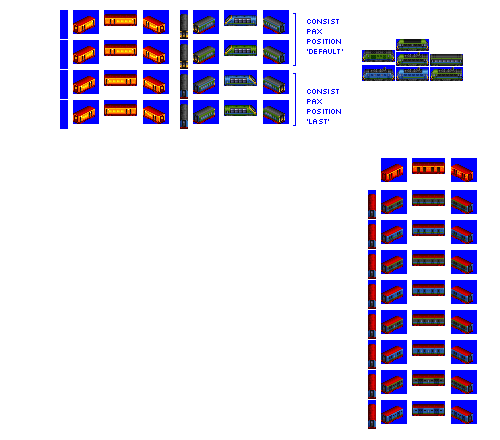
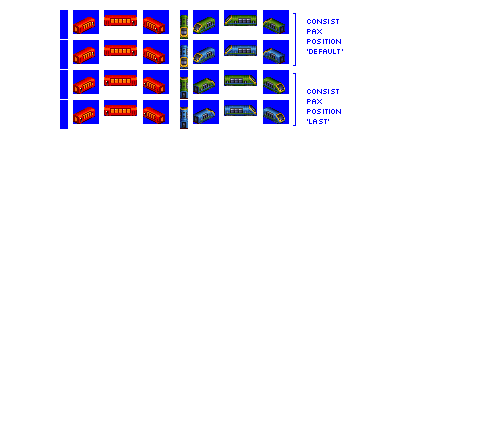
Change: sprites complete for Stratos, and pony NG gen 4 panoramic driving trailer

diff --git a/src/vehicles/pony/driving_cab_panoramic_passenger_ng_pony_gen_4.py b/src/vehicles/pony/driving_cab_panoramic_passenger_ng_pony_gen_4.py
@@ -11,14 +11,18 @@ def main(roster_id, **kwargs):
         base_track_type_name="NG",
         gen=4,
         extended_vehicle_life=True,  # extended vehicle life for all this generation of NG eh
-        sprites_complete=False,
+        sprites_complete=True,
     )
 
-    consist.add_unit(type=CabControlPaxCarUnit, weight=32, chassis="railcar_32px")
-
-    consist.description = """"""
-    consist.foamer_facts = (
-        """KIWI DRIVING CAB"""
+    consist.add_unit(
+        type=CabControlPaxCarUnit,
+        weight=32,
+        chassis="railcar_ng_32px",
+        tail_light="railcar_32px_6",
+        suppress_roof_sprite=True,
     )
+
+    consist.description = """For a view most spectacular."""
+    consist.foamer_facts = """Generic panoramic coaches"""
 
     return consist

diff --git a/src/vehicles/pony/stratos.py b/src/vehicles/pony/stratos.py
@@ -20,7 +20,7 @@ def main(roster_id, **kwargs):
         tilt_bonus=True,  # for lolz
         extended_vehicle_life=True,  # extended vehicle life for all this generation of NG eh
         consist_ruleset="railcars_4_unit_sets",  # special case
-        sprites_complete=False,
+        sprites_complete=True,
     )
 
     consist.add_unit(
@@ -28,7 +28,7 @@ def main(roster_id, **kwargs):
         weight=60,
         capacity=24,
         chassis="railcar_ng_32px",
-        tail_light="railcar_32px_5",
+        tail_light="railcar_32px_6",
         suppress_roof_sprite=True,
         repeat=2,
     )

diff --git a/src/vehicles/pony/driving_cab_passenger_ng_pony_gen_4.py b/src/vehicles/pony/driving_cab_passenger_ng_pony_gen_4.py
@@ -16,7 +16,9 @@ def main(roster_id, **kwargs):
 
     consist.add_unit(type=CabControlPaxCarUnit, weight=32, chassis="4_axle_ng_32px")
 
-    consist.description = """Now, a driving cab for the smaller trains. But not for goats."""
+    consist.description = (
+        """Now, a driving cab for the smaller trains. But not for goats."""
+    )
     consist.foamer_facts = (
         """KiwiRail SRV driving cab conversion of British Rail MK2 carriage"""
     )
